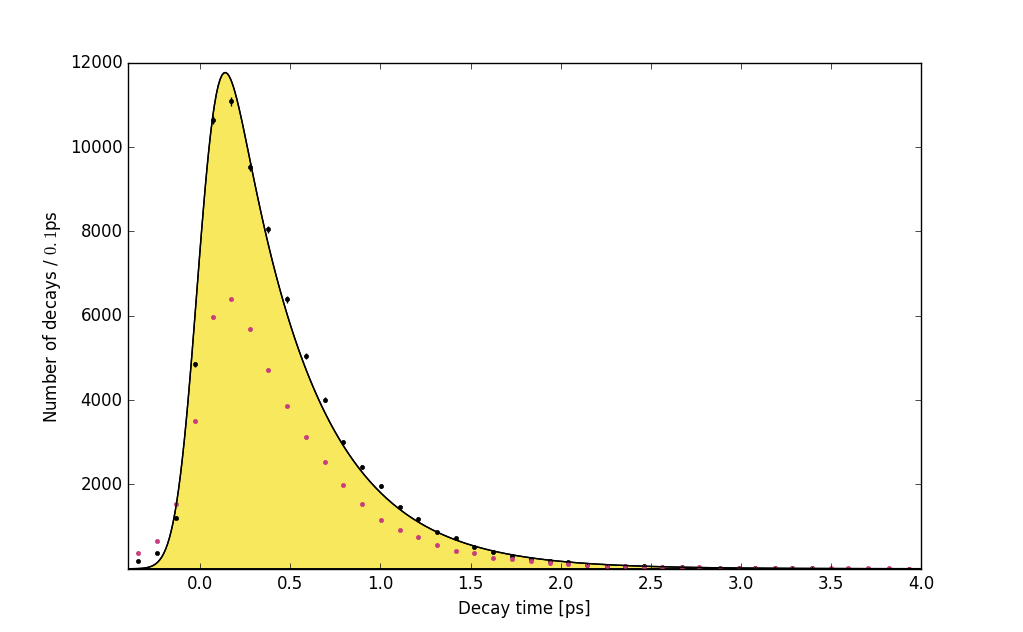
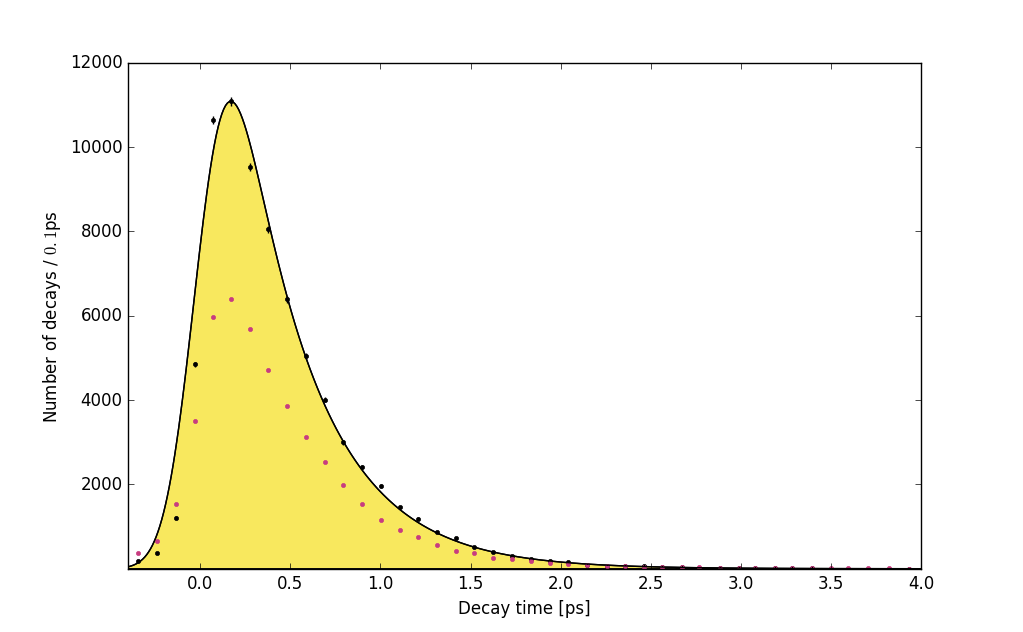
write out data and lifetime correct

diff --git a/Code/Lifetime.py b/Code/Lifetime.py
@@ -344,8 +344,8 @@ def plotData(data):
 	pl.close()
 
 
-def calculateLifetime(data, bg, deltamass_po, deltamass_peak_width):
-	bg_integral, sig_integral, bg_fraction = estimate_background(deltamass_po, data, deltamass_peak_width)
+def calculateLifetime(data, bg, deltamass_po, dm_binwidth, deltamass_peak_width):
+	bg_integral, sig_integral, bg_fraction = estimate_background(deltamass_po, data, dm_binwidth, deltamass_peak_width)
 
 	tau_elimination, tau_elimination_err, wb, pdf_gaussian_width, A = \
 		maximum_likelyhood_exp_fit(data, deltamass_po, deltamass_peak_width)
@@ -391,8 +391,8 @@ def calculateLifetime(data, bg, deltamass_po, deltamass_peak_width):
 	pl.plot(time, hist, '.k')
 	pl.plot(time, hist_bg, marker='.', linestyle='None', color='#C83C80')
 	pl.errorbar(time, hist, yerr=errors, fmt=',k', capsize=0)
-	pl.plot(time_cont, convoluted_exponential(time_cont, max(hist)*.7, tau_elimination, pdf_gaussian_width), '-k')
-	ax.fill_between(time_cont, 1e-4, convoluted_exponential(time_cont, max(hist)*.7, tau_elimination, pdf_gaussian_width), facecolor='#F8E85E')
+	pl.plot(time_cont, convoluted_exponential(time_cont, max(hist)*.73, tau_elimination, pdf_gaussian_width), '-k')
+	ax.fill_between(time_cont, 1e-4, convoluted_exponential(time_cont, max(hist)*.73, tau_elimination, pdf_gaussian_width), facecolor='#F8E85E')
 	ax.set_xlim(time_range[0], 4)
 	ax.set_ylim(1e-4, 1.25e5 if is_latex else 1.2e4)
 	pl.xlabel(r'Decay time [ps]')
@@ -400,11 +400,14 @@ def calculateLifetime(data, bg, deltamass_po, deltamass_peak_width):
 	savefig('decay')
 	pl.close()
 
-	with open("data.txt", "w") as text_file:
-	    text_file.write("lifetime_bgreduction=%s\n" % np.round(tau_elimination*1e3, 1))
-	    text_file.write("error_bgreduction=%s\n" % np.round(tau_elimination_err*1e3, 1))
-
-
+	add_val('lifetime_bgreduction', tau_elimination*1e3)
+	add_val('error_bgreduction', tau_elimination_err*1e3)
+	add_val('wb', wb*1e3)
+	add_val('range_low', range_low)
+	add_val('range_up', range_up)
+	add_val('bg_integral', bg_integral)
+	add_val('sig_integral', sig_integral)
+	add_val('bg_fraction', bg_fraction*100)
 
 
 

diff --git a/Code/Background.py b/Code/Background.py
@@ -25,8 +25,8 @@ def normalisation_const(pdf, range, args):
 
 def background_fit(dm, bg_A, bg_p, bg_m):
 	return bg_A * (dm-bg_m)**bg_p
-	
-	
+
+
 signal_fit = double_gaussian
 # 2.07302440e+01   2.98646045e-01   1.77728941e+03   1.45465825e+02		7.79647227e+00  -6.76180865e-01   4.09293926e+00]
 def combined_fit(dm, bg_A, bg_p, bg_m, sig_A, sig_centre, sig_w1, sig_w2, f):
@@ -53,12 +53,28 @@ def calculate_weight(po, filtered, range_low, range_up):
 	return wb
 
 
-def estimate_background(po, filtered, width):
+def estimate_background(po, filtered, bin_width, width):
 	range_low, range_up = get_sig_range(po, width)
-	bg_integral = spi.quad(background_fit, range_low, range_up, args=(po[0], po[1], po[2]))[0]
-	sig_integral = spi.quad(signal_fit, range_low, range_up, args=(po[3], po[4], po[5], po[6], po[7]))[0]
+	bg_integral = spi.quad(background_fit, range_low, range_up, args=(po[0], po[1], po[2]))[0]/bin_width
+	sig_integral = spi.quad(signal_fit, range_low, range_up, args=(po[3], po[4], po[5], po[6], po[7]))[0]/bin_width
 
 	bg_fraction = bg_integral/(sig_integral + bg_integral)
 
 	print("BACKGROUND EST", bg_integral, len(filtered), str(bg_fraction*100) + "%")
 	return bg_integral, sig_integral, bg_fraction
+
+
+class Record(object):
+	def __init__(self, name, data):
+		self.name = name
+		self.data = data
+
+write_list = []
+
+def write_out():
+	with open("data.txt", "w") as text_file:
+		for d in write_list:
+			text_file.write("%s=%s\n" % (d.name, d.data))
+
+def add_val(name, val, round_to=1):
+	write_list.append(Record(name, np.round(val, round_to)))

diff --git a/Code/Cuts.py b/Code/Cuts.py
@@ -11,11 +11,6 @@ def cut(accepted, rejected, cond):
 
 	return np.array(acc), np.array(rej)
 
-# type Record(object):
-# 	def __init__(self, name, data):
-# 		self.name = name
-# 		self.data = data
-
 #get data
 data = readFile('np.txt' if '--full-set' in sys.argv else 'np-short.txt')
 output = []
@@ -30,8 +25,11 @@ signal_region, background_sidebands, po_fullset, bin_width = cutEventSet_massDif
 filtered = data
 rejected = []
 print(len(data))
-bg_integral, sig_integral, bg_fraction = estimate_background(po_fullset, filtered, width)
+bg_integral, sig_integral, bg_fraction = estimate_background(po_fullset, filtered, bin_width, width)
 
+add_val('bg_integral_before', bg_integral)
+add_val('sig_integral_before', sig_integral)
+add_val('bg_fraction_before', bg_fraction*100)
 
 fig, ax = newfig()
 md = [d.massDiff_d0dstar for d in data]
@@ -155,7 +153,7 @@ print('cut-done')
 
 # massDiff_plot(filtered, 'AFTER', 0)
 plotData(filtered)
-calculateLifetime(filtered, background_sidebands, after_po, width)
+calculateLifetime(filtered, background_sidebands, after_po, after_bin_width, width)
 
 # mass dist
 newfig()
@@ -163,3 +161,6 @@ offs = [d.pPslow for d in filtered]
 pl.hist(offs, bins=100, histtype='step', fill=False)
 savefig('offsets')
 pl.close()
+
+
+write_out()

diff --git a/Code/Fitting.py b/Code/Fitting.py
@@ -21,7 +21,7 @@ def maximum_likelyhood_exp_fit(full_set, after_po, deltamass_peak_width):
 	print(range_low, range_up)
 
 	fit_range = (0, 10)
-	pdf_gaussian_width = 1./10.
+	pdf_gaussian_width = 1./7.
 
 	data = [event for event in full_set if fit_range[0] <= event.decayTime*1e-12 <= fit_range[1]]
 
